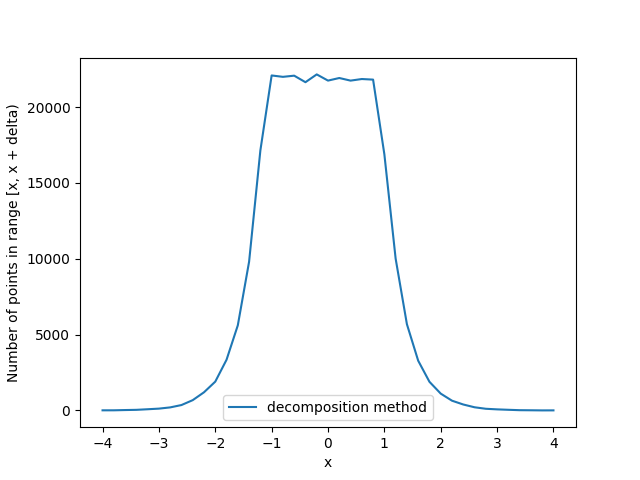
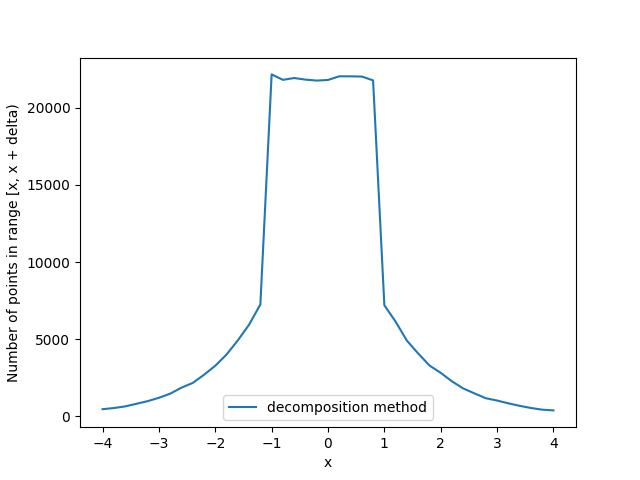
Fixed bug in decomposition method

diff --git a/HW12/model.py b/HW12/model.py
@@ -75,12 +75,12 @@ def model_using_decomposition_method():
     random = uniform_distribution()
     
     if random < c * np.exp(-a):
-        return -a - c * exponential()
+        return -a - exponential()
         
     if random < c * (2 * a + np.exp(-a)):
         return uniform_distribution() * 2 * a - a
         
-    return a + c * exponential()                    
+    return a + exponential()                    
        
 variants = [(model_using_inverse_function_method, "inverse function method"), (model_using_decomposition_method, "decomposition method")]
 
